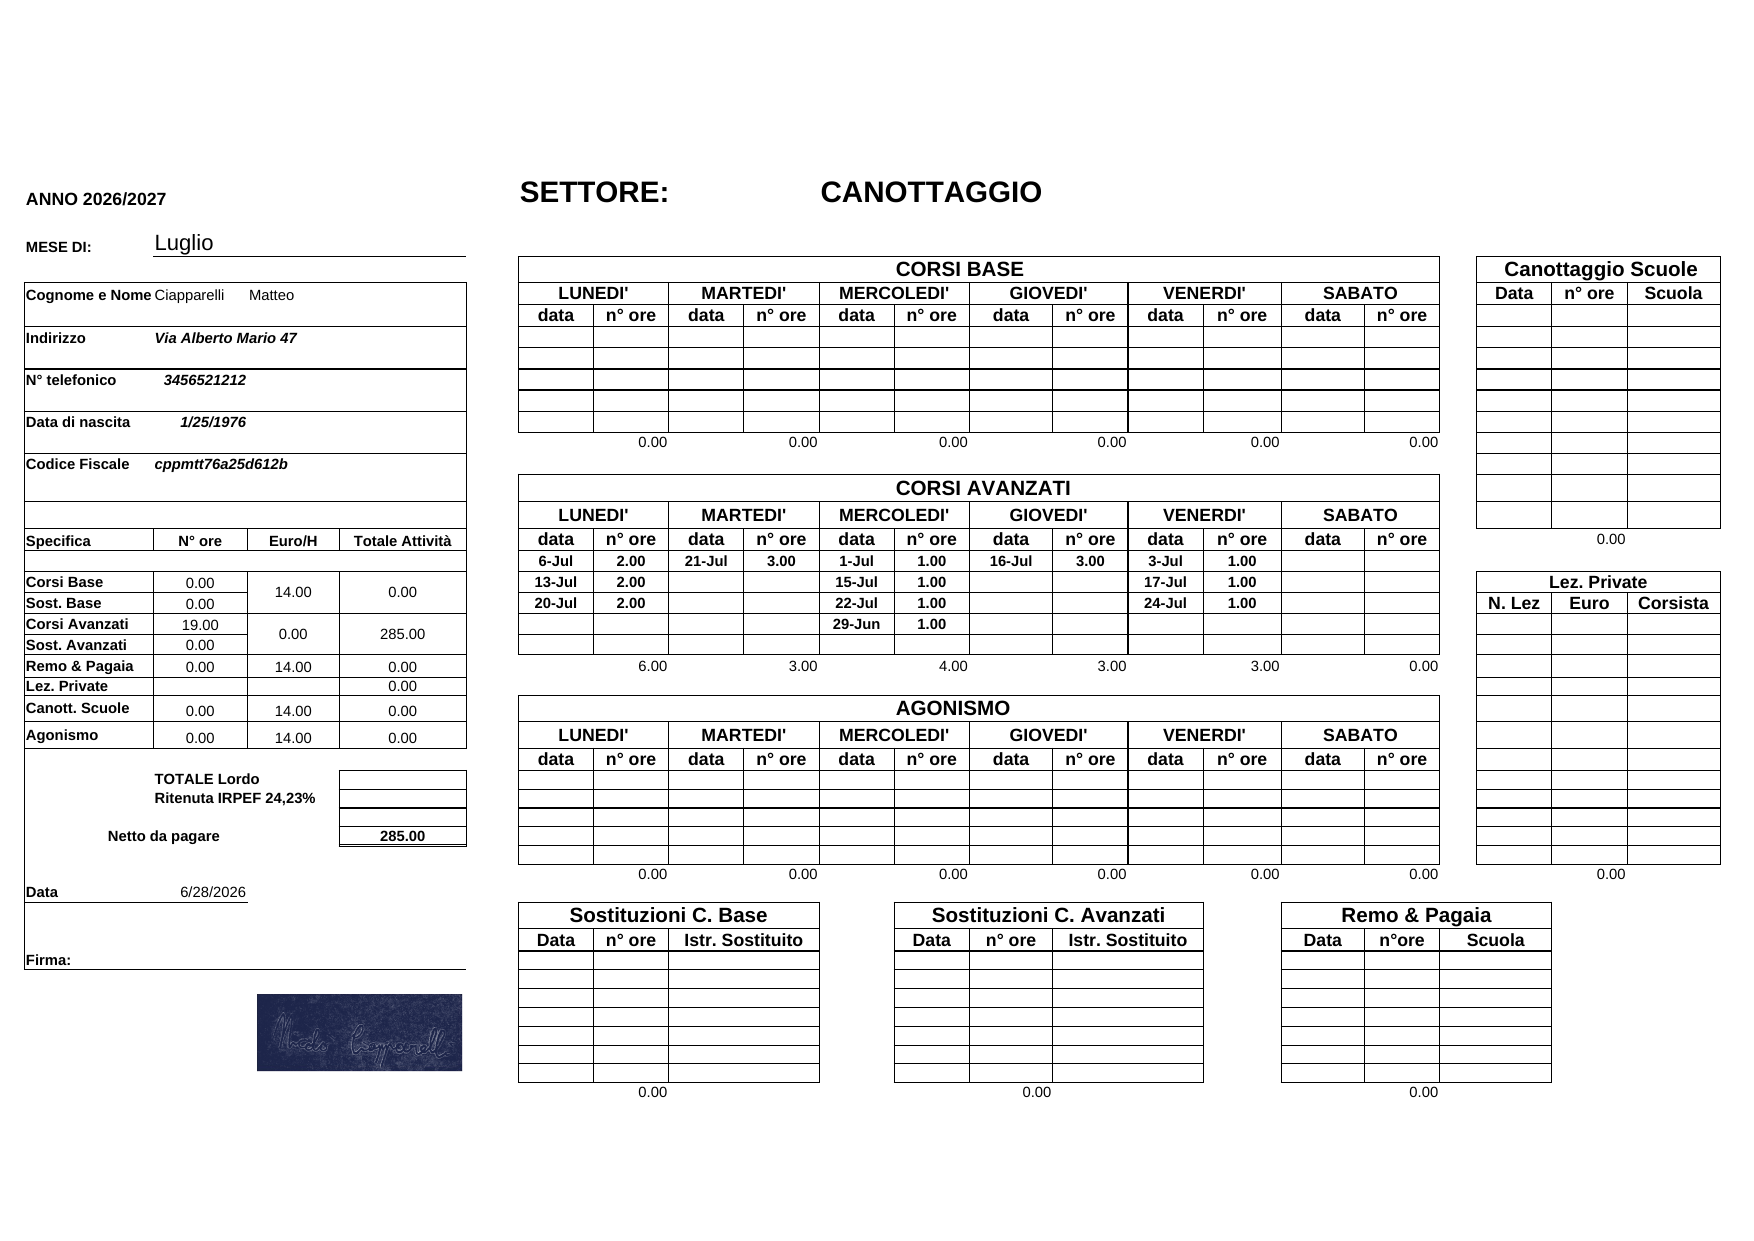
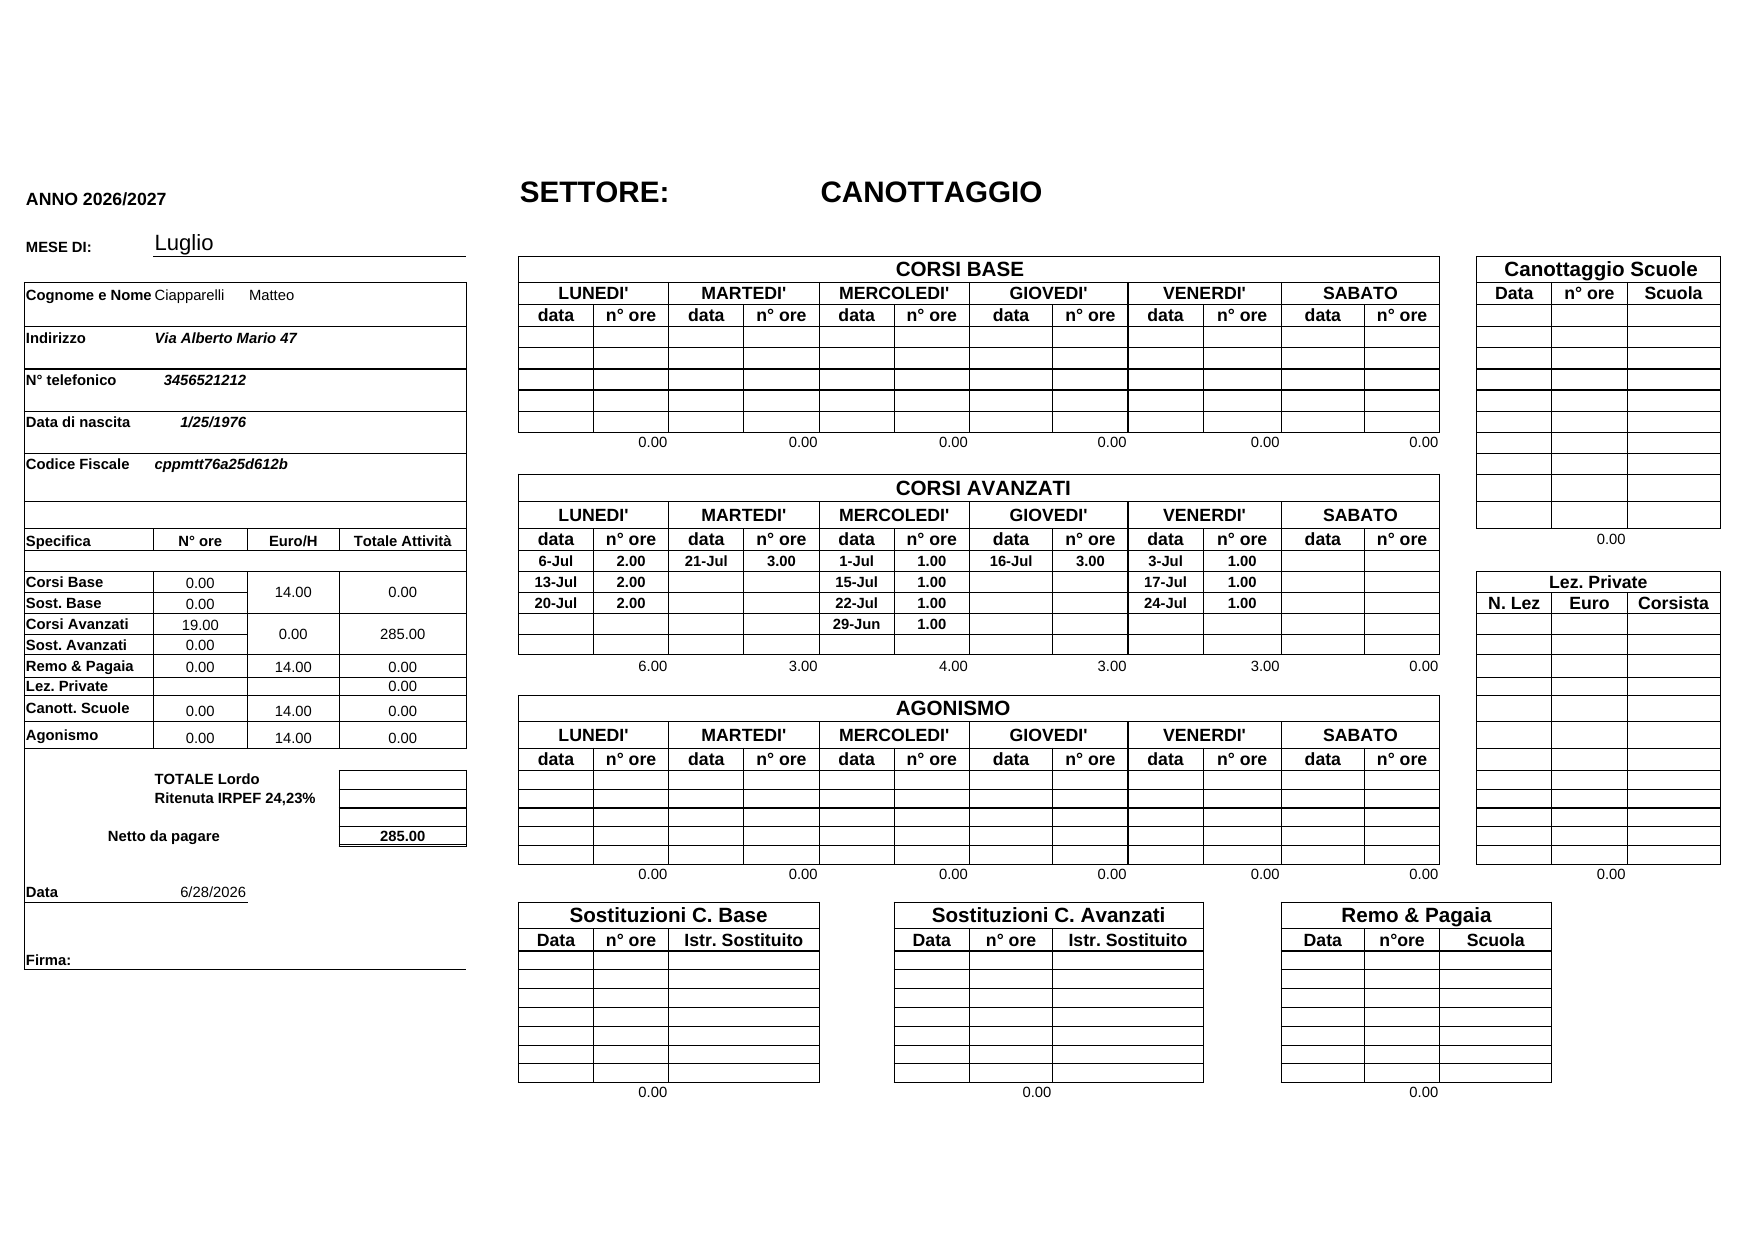
Add files via upload

Changed region(s): [[0.1231, 0.7961, 0.2771, 0.888]]

diff --git a/sw.js b/sw.js
@@ -1,4 +1,4 @@
-const CACHE="foglio-ore-v6";
+const CACHE="foglio-ore-v7";
 const CORE=["./","./index.html","./manifest.webmanifest","./Foglio_ore_template.xlsx","./Foglio_ore_template_bg.png","./firma_nicolo.png"];
 
 self.addEventListener("install",event=>{
